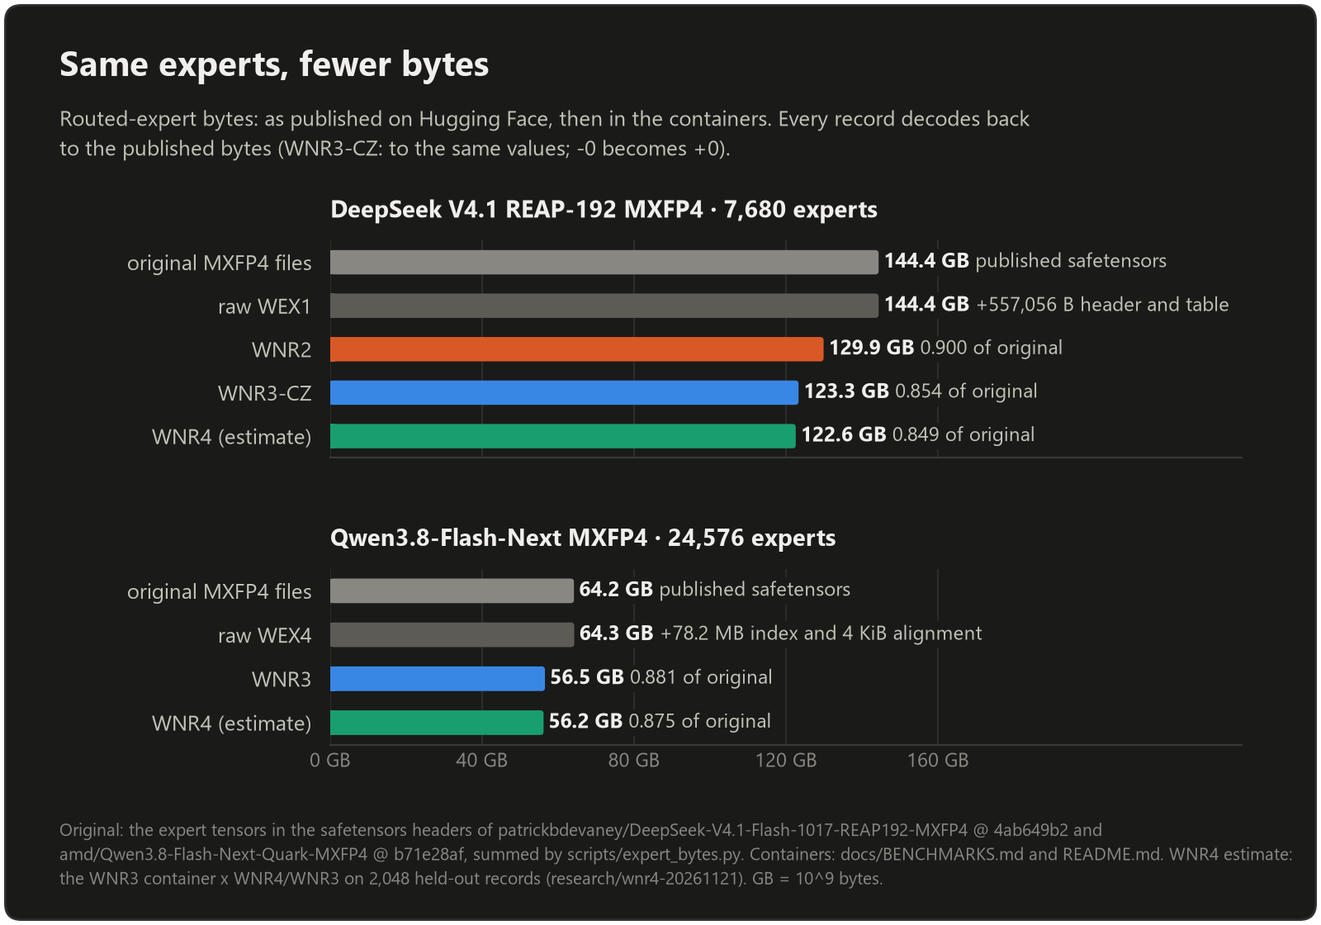
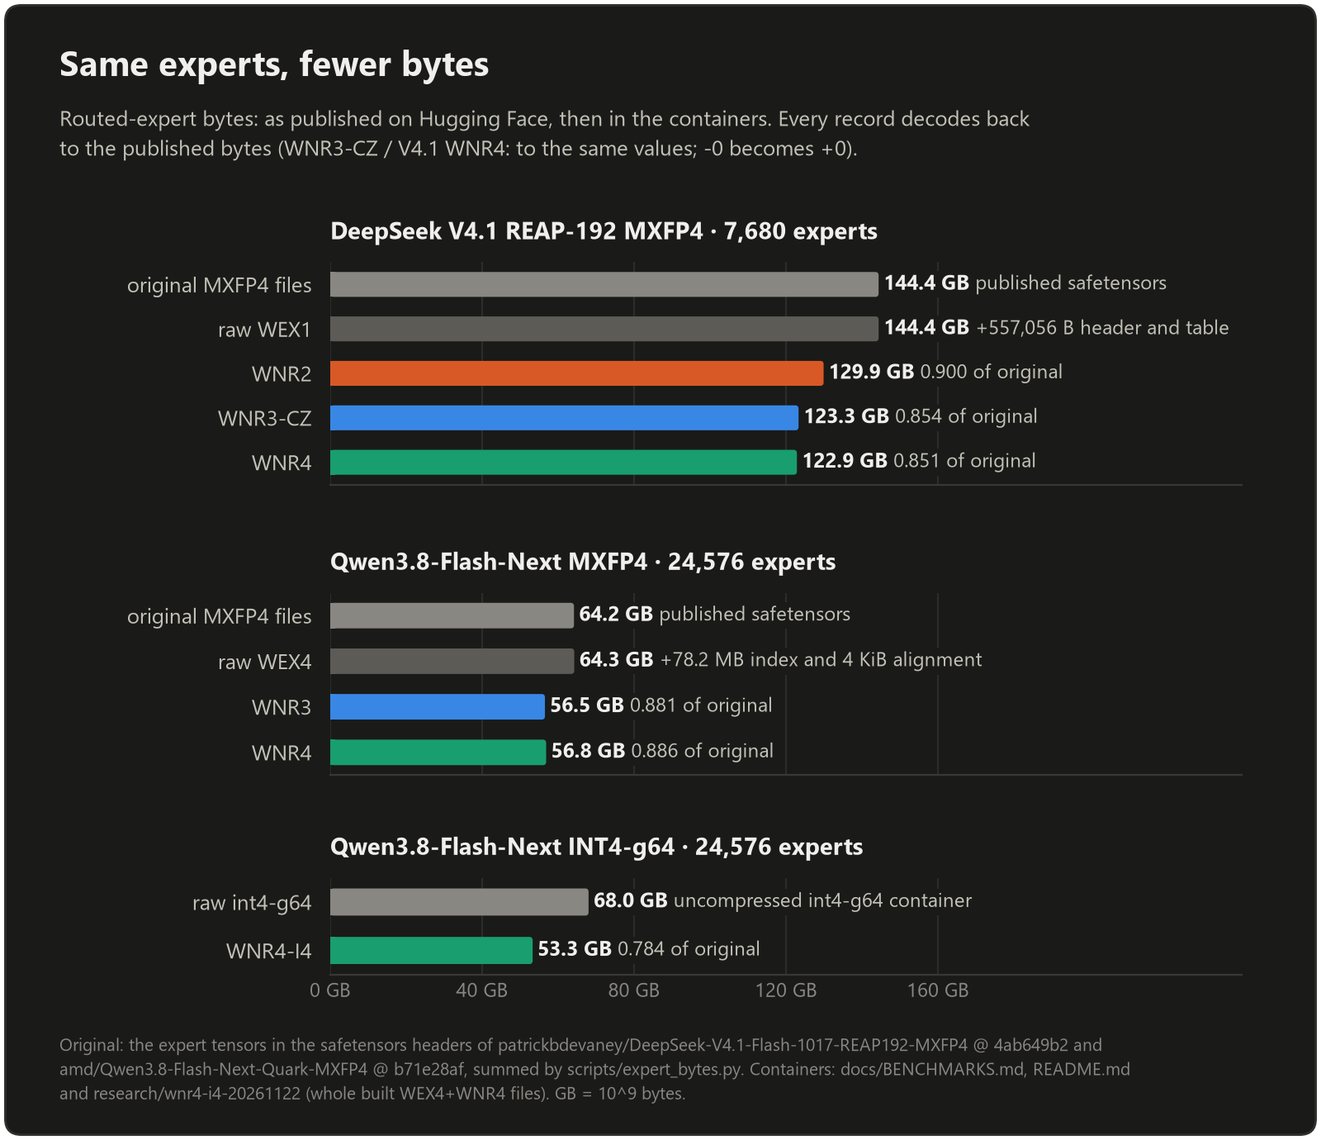
docs(readme): update front page and charts for WNR4 and WNR4-I4 production containers

Changed region(s): [[0.0312, 0.0312, 0.9375, 0.5], [0.0312, 0.5312, 0.9688, 0.9688]]

diff --git a/scripts/make_charts.py b/scripts/make_charts.py
@@ -24,64 +24,97 @@ GB = 1e9
 # patrickbdevaney/DeepSeek-V4.1-Flash-1017-REAP192-MXFP4 @ 4ab649b2 (7,680 experts in 40 layers; the 384 MTP experts
 # have other names and are not counted) and amd/Qwen3.8-Flash-Next-Quark-MXFP4 @ b71e28af (24,576 experts).
 V41_ORIGINAL, Q38_ORIGINAL = 144_388_915_200, 64_172_851_200
-# WNR4 is not built as a whole container: the WNR3 container scaled by WNR4 / WNR3 on 2,048 held-out records
-# (research/wnr4-20261121/README.md, "Results": V4.1 0.8488 / 0.8539, Qwen3.8 MXFP4 0.8753 / 0.8809).
-V41_WNR4_EST, Q38_WNR4_EST = round(123_306_192_896 * 0.8488 / 0.8539), round(56_532_672_512 * 0.8753 / 0.8809)
+# Whole built WEX4 + WNR4 containers on disk (2026-11-25):
+# DeepSeek V4.1 REAP-192 WNR4 (7,680 records), Qwen3.8 MXFP4 WNR4 (24,576 records),
+# and Qwen3.8 INT4-g64 WNR4-I4 (24,576 records vs 68.0 GB RAW, research/wnr4-i4-20261122).
+V41_WNR4, Q38_WNR4 = 122_872_295_424, 56_847_855_616
+Q38_I4_RAW, Q38_WNR4_I4 = 68_013_391_872, 53_294_047_232
 
 
 def chart_sizes(t):
     # docs/BENCHMARKS.md, "DeepSeek V4.1 REAP-192: container sizes" and "Qwen3.8-Flash-Next MXFP4" (container row);
-    # the Qwen3.8 WEX4 file size is in README.md ("Sizes of the real files").
+    # the Qwen3.8 WEX4 and WNR4 file sizes are in README.md ("What runs today") and research/wnr4-i4-20261122.
     v41 = [('original MXFP4 files', V41_ORIGINAL, 'muted', 'published safetensors'),
            ('raw WEX1', 144_389_472_256, 'gray', '+557,056 B header and table'),
            ('WNR2', 129_905_360_896, 'orange', None), ('WNR3-CZ', 123_306_192_896, 'blue', None),
-           ('WNR4 (estimate)', V41_WNR4_EST, 'aqua', None)]
+           ('WNR4', V41_WNR4, 'aqua', None)]
     q38 = [('original MXFP4 files', Q38_ORIGINAL, 'muted', 'published safetensors'),
            ('raw WEX4', 64_251_047_936, 'gray', '+78.2 MB index and 4 KiB alignment'),
-           ('WNR3', 56_532_672_512, 'blue', None), ('WNR4 (estimate)', Q38_WNR4_EST, 'aqua', None)]
-    h = 5.6
+           ('WNR3', 56_532_672_512, 'blue', None), ('WNR4', Q38_WNR4, 'aqua', None)]
+    q38i4 = [('raw int4-g64', Q38_I4_RAW, 'muted', 'uncompressed int4-g64 container'),
+             ('WNR4-I4', Q38_WNR4_I4, 'aqua', None)]
+    h = 6.9
     fig = cs.figure(t, h)
     cs.header(fig, t, 'Same experts, fewer bytes',
               'Routed-expert bytes: as published on Hugging Face, then in the containers. Every record decodes back\n'
-              'to the published bytes (WNR3-CZ: to the same values; -0 becomes +0).', h)
-    ax1 = cs.axes(fig, t, [0.25, 0.505, 0.69, 0.235], 'DeepSeek V4.1 REAP-192 MXFP4 · 7,680 experts')
-    ax2 = cs.axes(fig, t, [0.25, 0.195, 0.69, 0.19], 'Qwen3.8-Flash-Next MXFP4 · 24,576 experts')
-    for ax, rows in ((ax1, v41), (ax2, q38)):
+              'to the published bytes (WNR3-CZ / V4.1 WNR4: to the same values; -0 becomes +0).', h)
+    ax1 = cs.axes(fig, t, [0.25, 0.575, 0.69, 0.195], 'DeepSeek V4.1 REAP-192 MXFP4 · 7,680 experts')
+    ax2 = cs.axes(fig, t, [0.25, 0.32, 0.69, 0.16], 'Qwen3.8-Flash-Next MXFP4 · 24,576 experts')
+    ax3 = cs.axes(fig, t, [0.25, 0.145, 0.69, 0.085], 'Qwen3.8-Flash-Next INT4-g64 · 24,576 experts')
+    for ax, rows in ((ax1, v41), (ax2, q38), (ax3, q38i4)):
         orig = rows[0][1]
         cs.hbars(ax, [r[0] for r in rows], [r[1] / GB for r in rows], [t[r[2]] for r in rows], t, 240,
                  lambda v: f'{v:.1f} GB',
                  notes=[r[3] or f'{r[1] / orig:.3f} of original' for r in rows])
         ax.set_xticks(range(0, 161, 40))
     ax1.set_xticklabels([])
-    ax2.set_xticklabels([f'{x} GB' for x in range(0, 161, 40)])
+    ax2.set_xticklabels([])
+    ax3.set_xticklabels([f'{x} GB' for x in range(0, 161, 40)])
     cs.footer(fig, t, 'Original: the expert tensors in the safetensors headers of patrickbdevaney/DeepSeek-V4.1-Flash-'
               '1017-REAP192-MXFP4 @ 4ab649b2 and\namd/Qwen3.8-Flash-Next-Quark-MXFP4 @ b71e28af, summed by '
-              'scripts/expert_bytes.py. Containers: docs/BENCHMARKS.md and README.md. WNR4 estimate:\nthe WNR3 '
-              'container x WNR4/WNR3 on 2,048 held-out records (research/wnr4-20261121). GB = 10^9 bytes.', h)
+              'scripts/expert_bytes.py. Containers: docs/BENCHMARKS.md, README.md\nand research/wnr4-i4-20261122 '
+              '(whole built WEX4+WNR4 files). GB = 10^9 bytes.', h)
     return fig
 
 
 def chart_codecs(t):
-    # docs/BENCHMARKS.md, "WNR3 against general-purpose codecs on real expert records (2026-11-15, 24 experts)":
-    # stored / decoded bytes of 8 expert records per checkpoint; brotli is level 11, level 9 on MiniMax.
-    codecs = ['WNR3', 'brotli', 'zstd 19', 'zlib 9', 'lzma 9e', 'lz4hc 12']
-    ratios = {'DeepSeek V4.1 Flash': [0.8796, 0.9222, 0.9268, 0.9297, 0.9306, 0.9557],
-              'Qwen3-235B MXFP4': [0.8919, 0.8951, 0.8966, 0.8999, 0.9043, 0.9527],
-              'MiniMax-M2.1 MXFP4': [0.8856, 0.9043, 0.9055, 0.9083, 0.9117, 0.9556]}
-    record = {'DeepSeek V4.1 Flash': 18_800_640, 'Qwen3-235B MXFP4': 10_027_008, 'MiniMax-M2.1 MXFP4': 7_520_256}
-    h = 6.7
+    # docs/BENCHMARKS.md, "WNR3 against general-purpose codecs on real expert records (2026-11-15, 24 experts)";
+    # DeepSeek V4.1 WNR4 ratio (0.8488 on 2,048 held-out records): research/wnr4-20261121/README.md;
+    # Qwen3.8 INT4-g64 WNR4-I4 (0.78333) vs zstd 19 (0.8074) on 256 held-out records: research/wnr4-i4-20261122.
+    h = 7.9
     fig = cs.figure(t, h)
-    cs.header(fig, t, 'WNR3 saves more than general-purpose compressors',
-              '8 real MXFP4 expert records per checkpoint: their bytes as published, then stored by each codec '
+    cs.header(fig, t, 'WNR3 and WNR4 save more than general-purpose compressors',
+              'Real expert records per checkpoint: their bytes as published, then stored by each codec '
               '(shorter is better).', h)
-    cs.size_panels(fig, t, [(f'{name} · 8 records of {record[name]:,} B', [('original MXFP4 files', 8 * record[name],
-                    'muted')] + [(c, 8 * record[name] * r, 'blue' if c == 'WNR3' else 'gray') for c, r in zip(codecs, rs)])
-                            for name, rs in ratios.items()], 1.3, h)
-    cs.footer(fig, t, 'Source: docs/BENCHMARKS.md, "WNR3 against general-purpose codecs on real expert records" '
-              '(2026-11-15). WNR3 byte-exact, with a model\ntrained on the same 8 records; brotli at level 11 (9 on '
-              'MiniMax), the best general codec measured. The ratios do not depend on the machine.\nDecode speed, '
-              'measured on an Intel Core i7-7700K with 32 GB of RAM: zstd, zlib and lz4 decode faster than WNR3; lzma, '
-              'and brotli 11 on one thread, slower.', h)
+    v41_rec = 18_800_640
+    q3_rec = 10_027_008
+    mm_rec = 7_520_256
+    i4_total = 708_472_832   # 256 held-out int4-g64 records (2,767,472 B each)
+    panels = [
+        (f'DeepSeek V4.1 Flash · 8 records of {v41_rec:,} B',
+         [('original MXFP4 files', 8 * v41_rec, 'muted'),
+          ('WNR4', 8 * v41_rec * 0.8488, 'aqua'),
+          ('WNR3', 8 * v41_rec * 0.8796, 'blue'),
+          ('brotli', 8 * v41_rec * 0.9222, 'gray'),
+          ('zstd 19', 8 * v41_rec * 0.9268, 'gray'),
+          ('zlib 9', 8 * v41_rec * 0.9297, 'gray'),
+          ('lzma 9e', 8 * v41_rec * 0.9306, 'gray'),
+          ('lz4hc 12', 8 * v41_rec * 0.9557, 'gray')]),
+        (f'Qwen3-235B MXFP4 · 8 records of {q3_rec:,} B',
+         [('original MXFP4 files', 8 * q3_rec, 'muted'),
+          ('WNR3', 8 * q3_rec * 0.8919, 'blue'),
+          ('brotli', 8 * q3_rec * 0.8951, 'gray'),
+          ('zstd 19', 8 * q3_rec * 0.8966, 'gray'),
+          ('zlib 9', 8 * q3_rec * 0.8999, 'gray'),
+          ('lzma 9e', 8 * q3_rec * 0.9043, 'gray'),
+          ('lz4hc 12', 8 * q3_rec * 0.9527, 'gray')]),
+        (f'MiniMax-M2.1 MXFP4 · 8 records of {mm_rec:,} B',
+         [('original MXFP4 files', 8 * mm_rec, 'muted'),
+          ('WNR3', 8 * mm_rec * 0.8856, 'blue'),
+          ('brotli', 8 * mm_rec * 0.9043, 'gray'),
+          ('zstd 19', 8 * mm_rec * 0.9055, 'gray'),
+          ('zlib 9', 8 * mm_rec * 0.9083, 'gray'),
+          ('lzma 9e', 8 * mm_rec * 0.9117, 'gray'),
+          ('lz4hc 12', 8 * mm_rec * 0.9556, 'gray')]),
+        ('Qwen3.8-Flash-Next INT4-g64 · 256 held-out records',
+         [('original int4-g64', i4_total, 'muted'),
+          ('WNR4-I4', i4_total * 0.78333, 'aqua'),
+          ('zstd 19', i4_total * 0.8074, 'gray')]),
+    ]
+    cs.size_panels(fig, t, panels, 1.25, h, row_in=0.16, gap_in=0.45)
+    cs.footer(fig, t, 'Sources: docs/BENCHMARKS.md (2026-11-15, WNR3 byte-exact vs general codecs), '
+              'research/wnr4-20261121 (V4.1 WNR4 G=128, CZ),\nand research/wnr4-i4-20261122 (Qwen3.8 INT4-g64 '
+              'WNR4-I4 byte-exact vs zstd 19). Ratios do not depend on the machine.', h)
     return fig
 
 

diff --git a/README.md b/README.md
@@ -16,7 +16,7 @@ A Mixture-of-Experts model is split into hundreds of small blocks of weights cal
 **Think of a ZIP file.** When you zip a document and unzip it later, you get the same document back, every letter in place; the ZIP was only a smaller way to keep it. WEX works the same way for expert weights:
 
 - **WEX4** is the file layout: one slot per expert, and a fingerprint (SHA-256) of every slot. An uncompressed ("RAW") slot holds the expert's original bytes, unchanged.
-- **WNR3** is optional compression inside it, like ZIP: it makes a 4-bit expert 12-15% smaller (0.880 of its uncompressed size for Qwen3.8-Flash-Next, 0.854 for DeepSeek V4.1 REAP-192, over whole files), and unpacking gives back the same weights. In one optional mode, *canonical zero*, a zero written as "-0" comes back written as "+0": the same number, like writing 0 or -0 on paper (details below).
+- **WNR3 / WNR4** are optional lossless codecs inside it, like ZIP: they make a 4-bit expert 12-22% smaller (0.851 of original for DeepSeek V4.1 REAP-192 in WNR4, 0.880 in WNR3 / 0.886 in WNR4 for Qwen3.8-Flash-Next MXFP4, and 0.784 for Qwen3.8-Flash-Next INT4-g64 in WNR4-I4), and unpacking gives back the same weights. In one optional mode, *canonical zero*, a zero written as "-0" comes back written as "+0": the same number, like writing 0 or -0 on paper (details below).
 
 **Where precision is lost: before WEX.** To *quantize* is to round numbers to fewer bits so that they take less space; the rounding cannot be undone. The published expert files hold 4-bit weights (MXFP4; int4 for one Sage-S2.1-Flash file). Turning a model's 16-bit or 8-bit weights into 4-bit numbers is a quantization, and it does lose some precision, but it happens before WEX: DeepSeek publishes the experts of DeepSeek V4.1 in MXFP4, and the Qwen3.8-Flash-Next experts used here were quantized by AMD with AMD-Quark. The DeepSeek V4.1 model used here is also pruned by a third party (REAP-192: 192 of the 384 experts of each layer kept), which is lossy too. The Sage-S2.1-Flash files published next to the WEX files were requantized by us from the official FP8 release; that step is lossy and its quality was not measured. WEX then stores those weights as they are.
 
@@ -25,7 +25,7 @@ A Mixture-of-Experts model is split into hundreds of small blocks of weights cal
 | quantizing the weights to 4 bits | yes | before WEX: the model's publisher, a third party, or the person converting (we requantized Sage-S2.1-Flash ourselves for the published files) |
 | pruning experts (REAP), when used | yes | before WEX: a third party |
 | storing in a WEX4 file, RAW records | no: the same bytes | this repository |
-| WNR3 compression of an MXFP4 expert | no: the same bytes, or with canonical zero the same numbers (see below) | this repository |
+| WNR3 / WNR4 compression of an MXFP4 or int4-g64 expert | no: the same bytes, or with canonical zero the same numbers (see below) | this repository |
 | WBP1 compression of a BF16, FP8, F32 or integer tensor | no: the same bytes | this repository |
 
 The published files are on Hugging Face, with a table of who made each lossy step: [Kaira666/Kaira-WEX4-Experts](https://huggingface.co/Kaira666/Kaira-WEX4-Experts).
@@ -60,7 +60,7 @@ The repository slug says `Wex-WRN2` for historical reasons; the codec is spelled
 
 Short summaries of this page in other languages, each dated, with this page as the reference: [Italiano](#in-breve-italiano) (at the end of this page), [Español](docs/i18n/README.es.md), [Français](docs/i18n/README.fr.md), [Deutsch](docs/i18n/README.de.md), [简体中文](docs/i18n/README.zh-CN.md).
 
-**Status.** WEX4 (format version 4.0) and the WNR3 record codec (v1) are frozen and in production since 2026-11-10/11, on one machine, for two models. The code here is the reference implementation and the research behind it: research-grade and Windows-first (CI also runs the CPU checks on Linux and macOS), one maintainer, no packages, no release yet, and no stability promise for the tools' command lines; the specifications are the stable part. [![CI](https://github.com/KairaCode/Wex-WRN2/actions/workflows/ci.yml/badge.svg)](https://github.com/KairaCode/Wex-WRN2/actions/workflows/ci.yml)
+**Status.** WEX4 (format version 4.0) with WNR3 (codec 5) and WNR4 (codec 8) is in production on one machine for DeepSeek V4.1 REAP-192 (WEX4+WNR4) and Qwen3.8-Flash-Next (WEX4 RAW, WNR4 MXFP4, and WNR4-I4 int4-g64). The code here is the reference implementation and the research behind it: research-grade and Windows-first (CI also runs the CPU checks on Linux and macOS), one maintainer, no packages, no release yet, and no stability promise for the tools' command lines; the specifications are the stable part. [![CI](https://github.com/KairaCode/Wex-WRN2/actions/workflows/ci.yml/badge.svg)](https://github.com/KairaCode/Wex-WRN2/actions/workflows/ci.yml)
 
 ## What WEX is
 
@@ -100,11 +100,11 @@ Two things are numbered separately. The **container** version (WEX1 to WEX4) is 
 | 4 | WNR2 | `WNR2` | 16 | rANS with the container's WNM2 model: 567 contexts per matrix, 14-bit CDFs, u16 stream lengths | yes | structure only: 1.8-1.9% of random bit flips accepted | CPU, CUDA (helper feature 4) | superseded on 2026-11-10; decoder kept |
 | 5 | WNR3 | `WNR3` | 32, plus 64 for canonical zero | the WNR2 skeleton plus ceil form, rule-g anchors, optional canonical zero (FP4 -0 stored as +0) and the record's owner | yes; with canonical zero value-exact, not byte-exact | 23-bit MurmurHash3 per stream, owner | CPU, CUDA (helper feature 16) | **production** (V4.1, canonical zero) |
 | 6 | WBP1, WEX4 only | `WBP1` | not applicable | byte-plane order-0 rANS for FP8, BF16, F32 and integers | yes | hash per stream or chunk, owner | CPU | written and fuzzed; no production file, no engine loader |
-| 8 | WNR4, WEX4 only | `WNR4` | not applicable | tiles of 32 rANS lanes that share one 16-bit word stream, with the container's WNM4 model (blob kind 3); kinds MX (MXFP4), NV (NVFP4), GG (the Q2_0 and IQ4_NL slices of a GGUF routed-expert record; its other slices verbatim) and I4 (int4-g64 experts: the codes, and the group scales as indices into the lattice of an FP8 block-scaled source). In WEX4 only GG and I4 so far | yes; byte-exact in WEX4 | 32-bit hash per tile, checked end states and word count, owner, model id; the verbatim slices of a GG record: none (only the record's SHA-256 in the WEX4 index, checked at its first read) | CPU, CUDA (prototype helper) | **draft, research** ([WNR4-SPEC](docs/WNR4-SPEC.md)) |
+| 8 | WNR4, WEX4 only | `WNR4` | not applicable | tiles of 32 rANS lanes that share one 16-bit word stream, with the container's WNM4 model (blob kind 3); kinds MX (MXFP4), NV (NVFP4), GG (the Q2_0 and IQ4_NL slices of a GGUF routed-expert record; its other slices verbatim) and I4 (int4-g64 experts: the codes, and the group scales as indices into the lattice of an FP8 block-scaled source) | yes; byte-exact (or canonical zero on V4.1 MXFP4) | 32-bit hash per tile, checked end states and word count, owner, model id; the verbatim slices of a GG record: none (only the record's SHA-256 in the WEX4 index, checked at its first read) | CPU, CUDA | **production** (V4.1 MXFP4, Qwen3.8 MXFP4 & INT4-g64; [WNR4-SPEC](docs/WNR4-SPEC.md)) |
 
 Container magics are little-endian integers, so a WEX4 file starts with the bytes `34 58 45 57`; record magics read forward. The WNM2 model is a 59,408-byte table of CDFs built from symbol counts; no neural network is involved, although the constants say `NEURAL_RANS` ([WNR2-REFERENCE](docs/WNR2-REFERENCE.md)). The CUDA helper `kaira_wex_cuda.dll` (source `c/tools/wex_cuda_bridge.cu`) reports feature bits 1 decode into VRAM, 2 host register, 4 WNR2, 8 batched decode into VRAM, 16 WNR3, 32 batched decode into host memory. Cells checked against `c/wex_format.h`, `c/wex4.h`, `c/wex_neural_rans.h` and `c/wex_palette.h`; the Status and Decoders cells of WEX2 and of codecs 1 to 3 come from [WNR2-REFERENCE](docs/WNR2-REFERENCE.md) and the integration guide and were not re-verified.
 
-Codec 8, WNR4, is a draft of 2026-11-21: no production container and no engine uses it, and its integration into the maintainer's engines was analysed on that day and not done (the estimated gain was below what an A/B run of those engines can resolve). Its row is checked against [WNR4-SPEC](docs/WNR4-SPEC.md) sections 1 to 7 and [WEX4-SPEC](docs/WEX4-SPEC.md) section 7.3.
+Codec 8, WNR4, is now built and running in WEX4 containers for DeepSeek V4.1 REAP-192 (MXFP4, 122.9 GB, 0.851 of original) and Qwen3.8-Flash-Next (MXFP4 56.8 GB, and INT4-g64 WNR4-I4 53.3 GB, 0.784 of raw). Its row is checked against [WNR4-SPEC](docs/WNR4-SPEC.md) sections 1 to 7 and [WEX4-SPEC](docs/WEX4-SPEC.md) section 7.3.
 
 ## File layout
 
@@ -160,12 +160,12 @@ The V4.1 switch report's own reading of its numbers: on this machine the second 
 
 <picture>
   <source media="(prefers-color-scheme: dark)" srcset="assets/charts/sizes-dark.png">
-  <img alt="Bar chart: routed-expert bytes as published and in the containers. DeepSeek V4.1 REAP-192 MXFP4: original MXFP4 safetensors 144.4 GB, raw WEX1 144.4 GB (+557,056 B header and table), WNR2 129.9 GB (0.900 of original), WNR3-CZ 123.3 GB (0.854), WNR4 estimate 122.6 GB (0.849). Qwen3.8-Flash-Next MXFP4: original 64.2 GB, raw WEX4 64.3 GB (+78.2 MB index and alignment), WNR3 56.5 GB (0.881), WNR4 estimate 56.2 GB (0.875)." src="assets/charts/sizes-light.png" width="800">
+  <img alt="Bar chart: routed-expert bytes as published and in the containers. DeepSeek V4.1 REAP-192 MXFP4: original MXFP4 safetensors 144.4 GB, raw WEX1 144.4 GB, WNR2 129.9 GB (0.900), WNR3-CZ 123.3 GB (0.854), WNR4 122.9 GB (0.851). Qwen3.8-Flash-Next MXFP4: original 64.2 GB, raw WEX4 64.3 GB, WNR3 56.5 GB (0.881), WNR4 56.8 GB (0.886). Qwen3.8-Flash-Next INT4-g64: raw 68.0 GB, WNR4-I4 53.3 GB (0.784)." src="assets/charts/sizes-light.png" width="800">
 </picture>
 
 <picture>
   <source media="(prefers-color-scheme: dark)" srcset="assets/charts/codecs-dark.png">
-  <img alt="Bar chart: 8 real MXFP4 expert records per checkpoint, as published and stored by each codec. DeepSeek V4.1 Flash: original 150.4 MB, WNR3 132.3 MB (-12.0%), brotli 138.7 MB (-7.8%), zstd 19 139.4 MB (-7.3%). Qwen3-235B: original 80.2 MB, WNR3 71.5 MB (-10.8%), brotli 71.8 MB (-10.5%). MiniMax-M2.1: original 60.2 MB, WNR3 53.3 MB (-11.4%), brotli 54.4 MB (-9.6%)." src="assets/charts/codecs-light.png" width="800">
+  <img alt="Bar chart: real expert records per checkpoint, as published and stored by each codec. DeepSeek V4.1 Flash: original 150.4 MB, WNR4 127.7 MB (-15.1%), WNR3 132.3 MB (-12.0%), brotli 138.7 MB (-7.8%), zstd 19 139.4 MB (-7.3%). Qwen3-235B: original 80.2 MB, WNR3 71.5 MB (-10.8%), brotli 71.8 MB (-10.5%). MiniMax-M2.1: original 60.2 MB, WNR3 53.3 MB (-11.4%), brotli 54.4 MB (-9.6%). Qwen3.8-Flash-Next INT4-g64: original 708.5 MB, WNR4-I4 555.0 MB (-21.7%), zstd 19 572.0 MB (-19.3%)." src="assets/charts/codecs-light.png" width="800">
 </picture>
 
 <picture>
@@ -182,12 +182,13 @@ Each chart names its source in its footnote. The speed chart was measured on one
 
 ## What runs today
 
-Summary of 2026-11-13; [STATUS.md](STATUS.md) is the page of record, with the roots, the switches, the engine builds and what is switched off.
+Summary of 2026-11-25; [STATUS.md](STATUS.md) is the page of record, with the roots, the switches, the engine builds and what is switched off.
 
 | Model | Container | Records | Bytes per copy | Drives | Integrity |
 |---|---|---|---|---|---|
-| DeepSeek V4.1 REAP-192 (MXFP4) | WEX4 since 2026-11-11 (WNR3 since 2026-11-10) | 7,680 WNR3 with canonical zero | 123,312,910,336 | two NVMe drives, a full copy on each, reads split 38/62 | root pinned; SHA-256 of each record at its first read |
-| Qwen3.8-Flash-Next (MXFP4 routed experts) | WEX4 since 2026-11-11 | 24,576 RAW | 64,251,047,936 | two NVMe drives, a full copy on each, reads split 38/62 | both copies verified on 2026-11-13; root recorded, not pinned; header and index checked at open |
+| DeepSeek V4.1 REAP-192 (MXFP4) | WEX4 + WNR4 (codec 8) | 7,680 WNR4 | 122,872,295,424 | two NVMe drives, a full copy on each, reads split 38/62 | root pinned; SHA-256 of each record at its first read |
+| Qwen3.8-Flash-Next (MXFP4 routed experts) | WEX4 (RAW + WNR4 sidecar) | 24,576 RAW (`64.25 GB`) / WNR4 (`56.85 GB`) | 64,251,047,936 / 56,847,855,616 | two NVMe drives (50/50 mirror) | header and index checked at open |
+| Qwen3.8-Flash-Next (INT4-g64 routed experts) | WEX4 + WNR4-I4 (codec 8, kind I4) | 24,576 WNR4-I4 | 53,294,047,232 | one NVMe drive | byte-exact verified; header and index checked at open |
 
 Every measurement table: [docs/BENCHMARKS.md](docs/BENCHMARKS.md). Format changes by date: [CHANGELOG.md](CHANGELOG.md).
 
@@ -301,11 +302,11 @@ Contributions are welcome under the Apache License 2.0, inbound = outbound; a co
 
 ## In breve (italiano)
 
-Sintesi del 2026-11-21 di questa pagina; dove i due testi differiscono, vale quello inglese.
+Sintesi del 2026-11-25 di questa pagina; dove i due testi differiscono, vale quello inglese.
 
-- **Cos'è.** WEX è un formato di file, senza perdita, per gli expert dei modelli Mixture-of-Experts: un file di record allineati a 4096 byte, uno per expert, che il motore legge da NVMe con una sola lettura mentre genera. WEX4 aggiunge un header e un indice con lo SHA-256 di ogni record; WNR3 è la codifica rANS senza perdita dei record. WEX4 (versione di formato 4.0) e WNR3 (v1) sono congelati; il codice è l'implementazione di riferimento, di livello ricerca e pensata anzitutto per Windows.
+- **Cos'è.** WEX è un formato di file, senza perdita, per gli expert dei modelli Mixture-of-Experts: un file di record allineati a 4096 byte, uno per expert, che il motore legge da NVMe con una sola lettura mentre genera. WEX4 aggiunge un header e un indice con lo SHA-256 di ogni record; WNR3 (codec 5) e WNR4 (codec 8) sono le codifiche rANS senza perdita dei record. WEX4 (versione di formato 4.0) con WNR3/WNR4 è in produzione; il codice è l'implementazione di riferimento, di livello ricerca e pensata anzitutto per Windows.
 - **Senza perdita, non è una quantizzazione.** Come con uno ZIP, si riottengono gli stessi pesi che sono stati salvati: gli stessi byte, oppure, con lo zero canonico, gli stessi numeri (uno zero scritto "-0" torna scritto "+0"). WEX non arrotonda, non quantizza e non pota niente. La precisione dei pesi a 4 bit si perde prima di WEX: nella quantizzazione fatta dall'editore del modello o da terzi (AMD per Qwen3.8), nella potatura REAP di DeepSeek V4.1 fatta da terzi, e nella nostra riquantizzazione dei file Sage-S2.1-Flash pubblicati. Come verificarlo: [Check it yourself](#check-it-yourself).
-- **Cosa gira oggi** (sintesi del 2026-11-13). DeepSeek V4.1 REAP-192 legge un WEX4 con record WNR3 (0,854 del formato grezzo), Qwen3.8-Flash-Next un WEX4 con record MXFP4 grezzi; entrambi da due drive NVMe con una copia completa ciascuno, letture divise 38/62. Stato aggiornato: [STATUS.md](STATUS.md).
+- **Cosa gira oggi** (sintesi del 2026-11-25). DeepSeek V4.1 REAP-192 usa WEX4 + WNR4 (122,9 GB, 0,851 dell'originale) su due NVMe (split 38/62); Qwen3.8-Flash-Next usa WEX4 MXFP4 (RAW 64,3 GB in mirror 50/50 + WNR4 56,8 GB) e WEX4 + WNR4-I4 int4-g64 (53,3 GB, 0,784 del RAW). Stato aggiornato: [STATUS.md](STATUS.md).
 - **Come provarlo.** `bash scripts/check_all.sh` compila e lancia i controlli su CPU (test dei formati, lettori e convertitori WEX4, vettori di conformità, decoder WNR3 veloce) e il controllo del repository, senza GPU e senza modelli; se tutto va bene l'ultima riga è `all checks passed`, con codice di uscita 0. I prerequisiti sono nella sezione [Try it in ten minutes](#try-it-in-ten-minutes). La CI lo esegue su Linux (x86-64 e ARM64), macOS (Apple silicon, con GNU gcc e con Apple clang) e Windows; i sanitizer, il fuzzing e i lettori in Go e in Rust sono job a parte.
 - **Da dove cominciare.** [docs/ARCHITECTURE.md](docs/ARCHITECTURE.md) per l'insieme, [docs/WEX4-SPEC.md](docs/WEX4-SPEC.md) e [docs/WNR3-SPEC.md](docs/WNR3-SPEC.md) per i byte, [impl/go-wex4/](impl/go-wex4/README.md) per l'implementazione in Go scritta dalle sole specifiche, [docs/COLIBRI-INTEGRATION.md](docs/COLIBRI-INTEGRATION.md) per collegare un motore, [docs/HELP-WANTED.md](docs/HELP-WANTED.md) per i compiti aperti, [CONTRIBUTING.md](CONTRIBUTING.md) per contribuire, [SECURITY.md](SECURITY.md) per segnalare una vulnerabilità.
 - **Licenza.** Apache 2.0 ([LICENSE](LICENSE), [NOTICE](NOTICE)). Il repository non contiene pesi di modelli. Alcuni report datati in `docs/reports/` sono in italiano.
